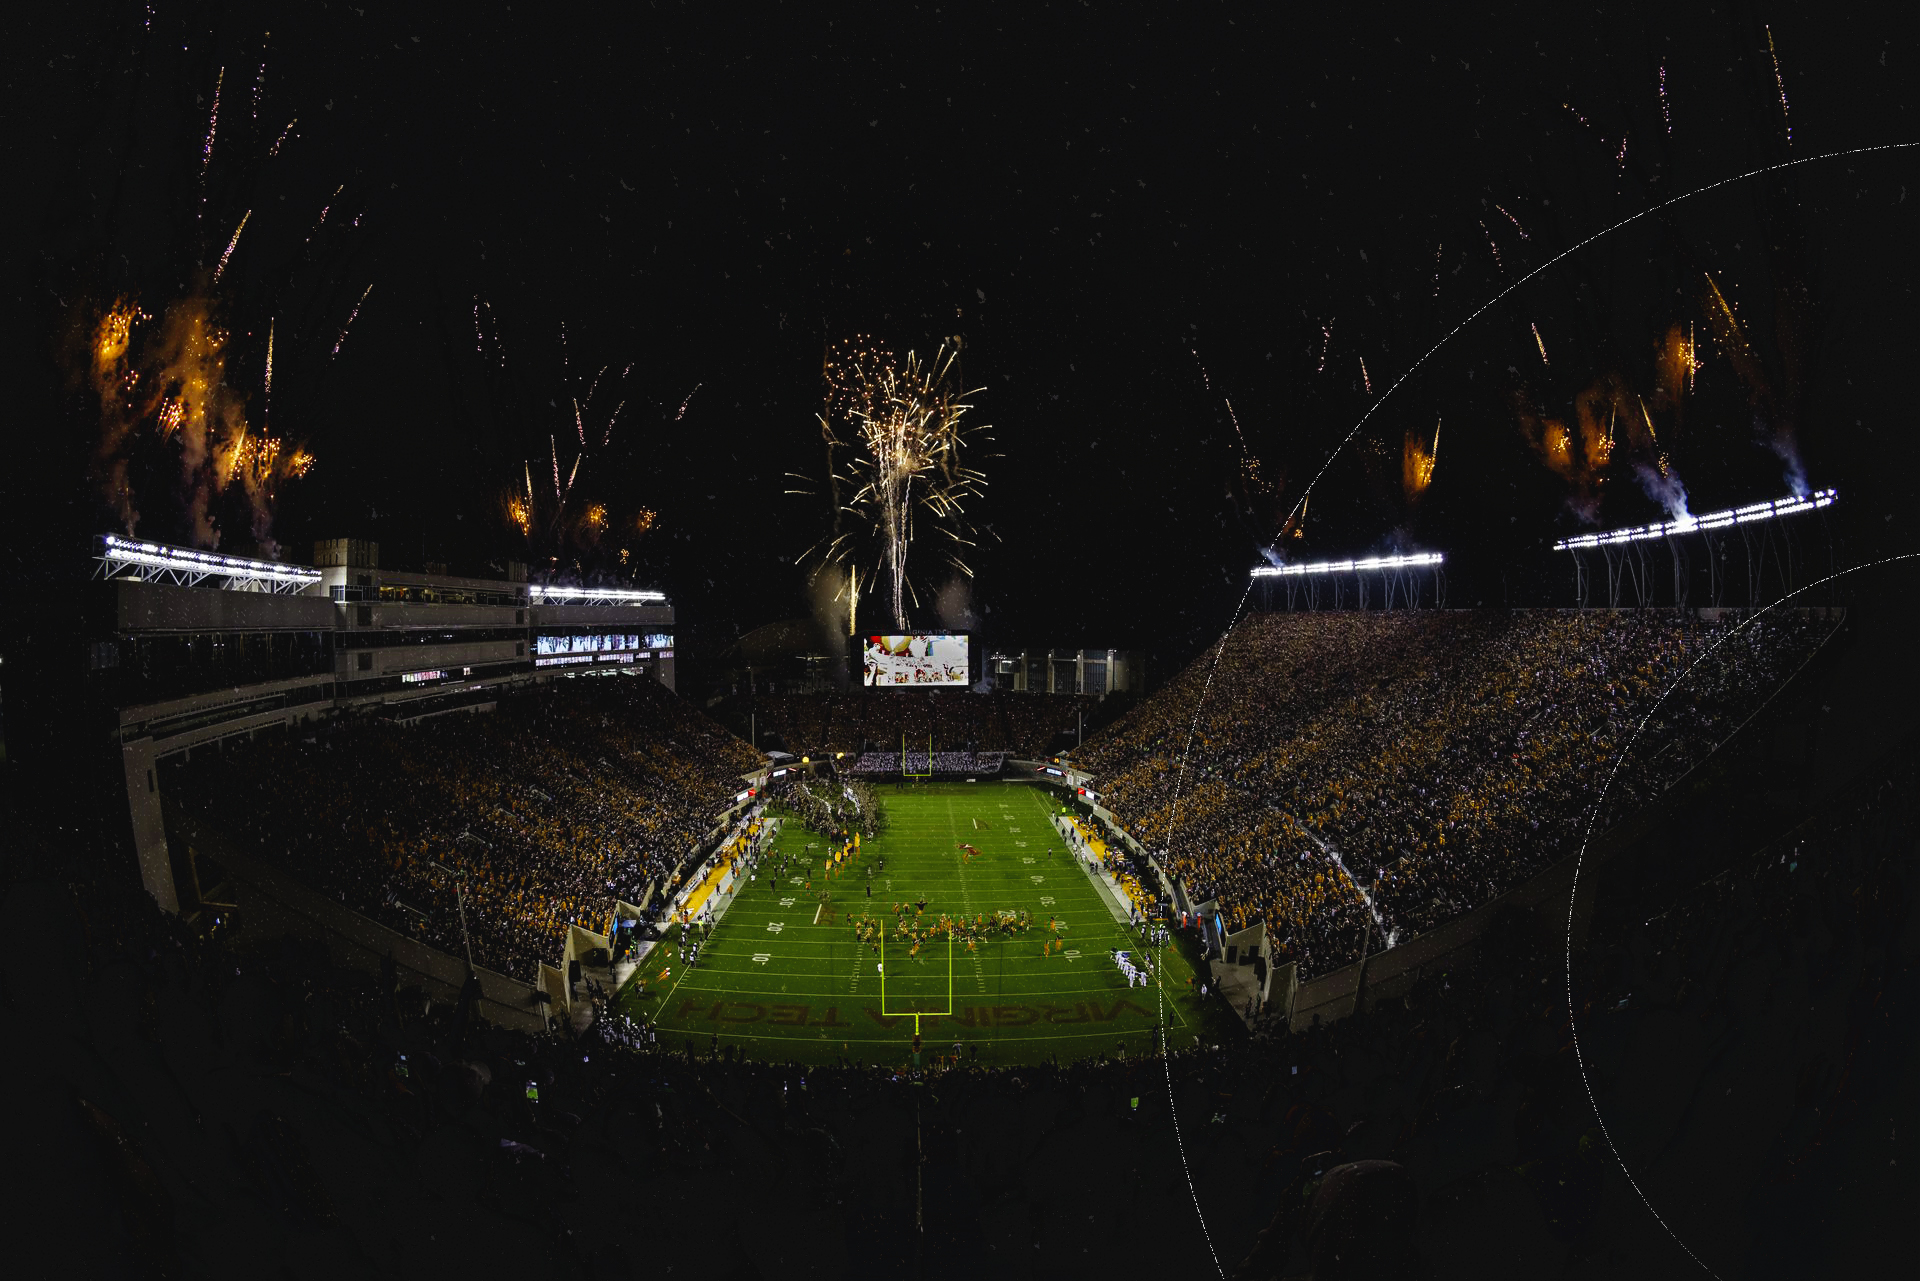
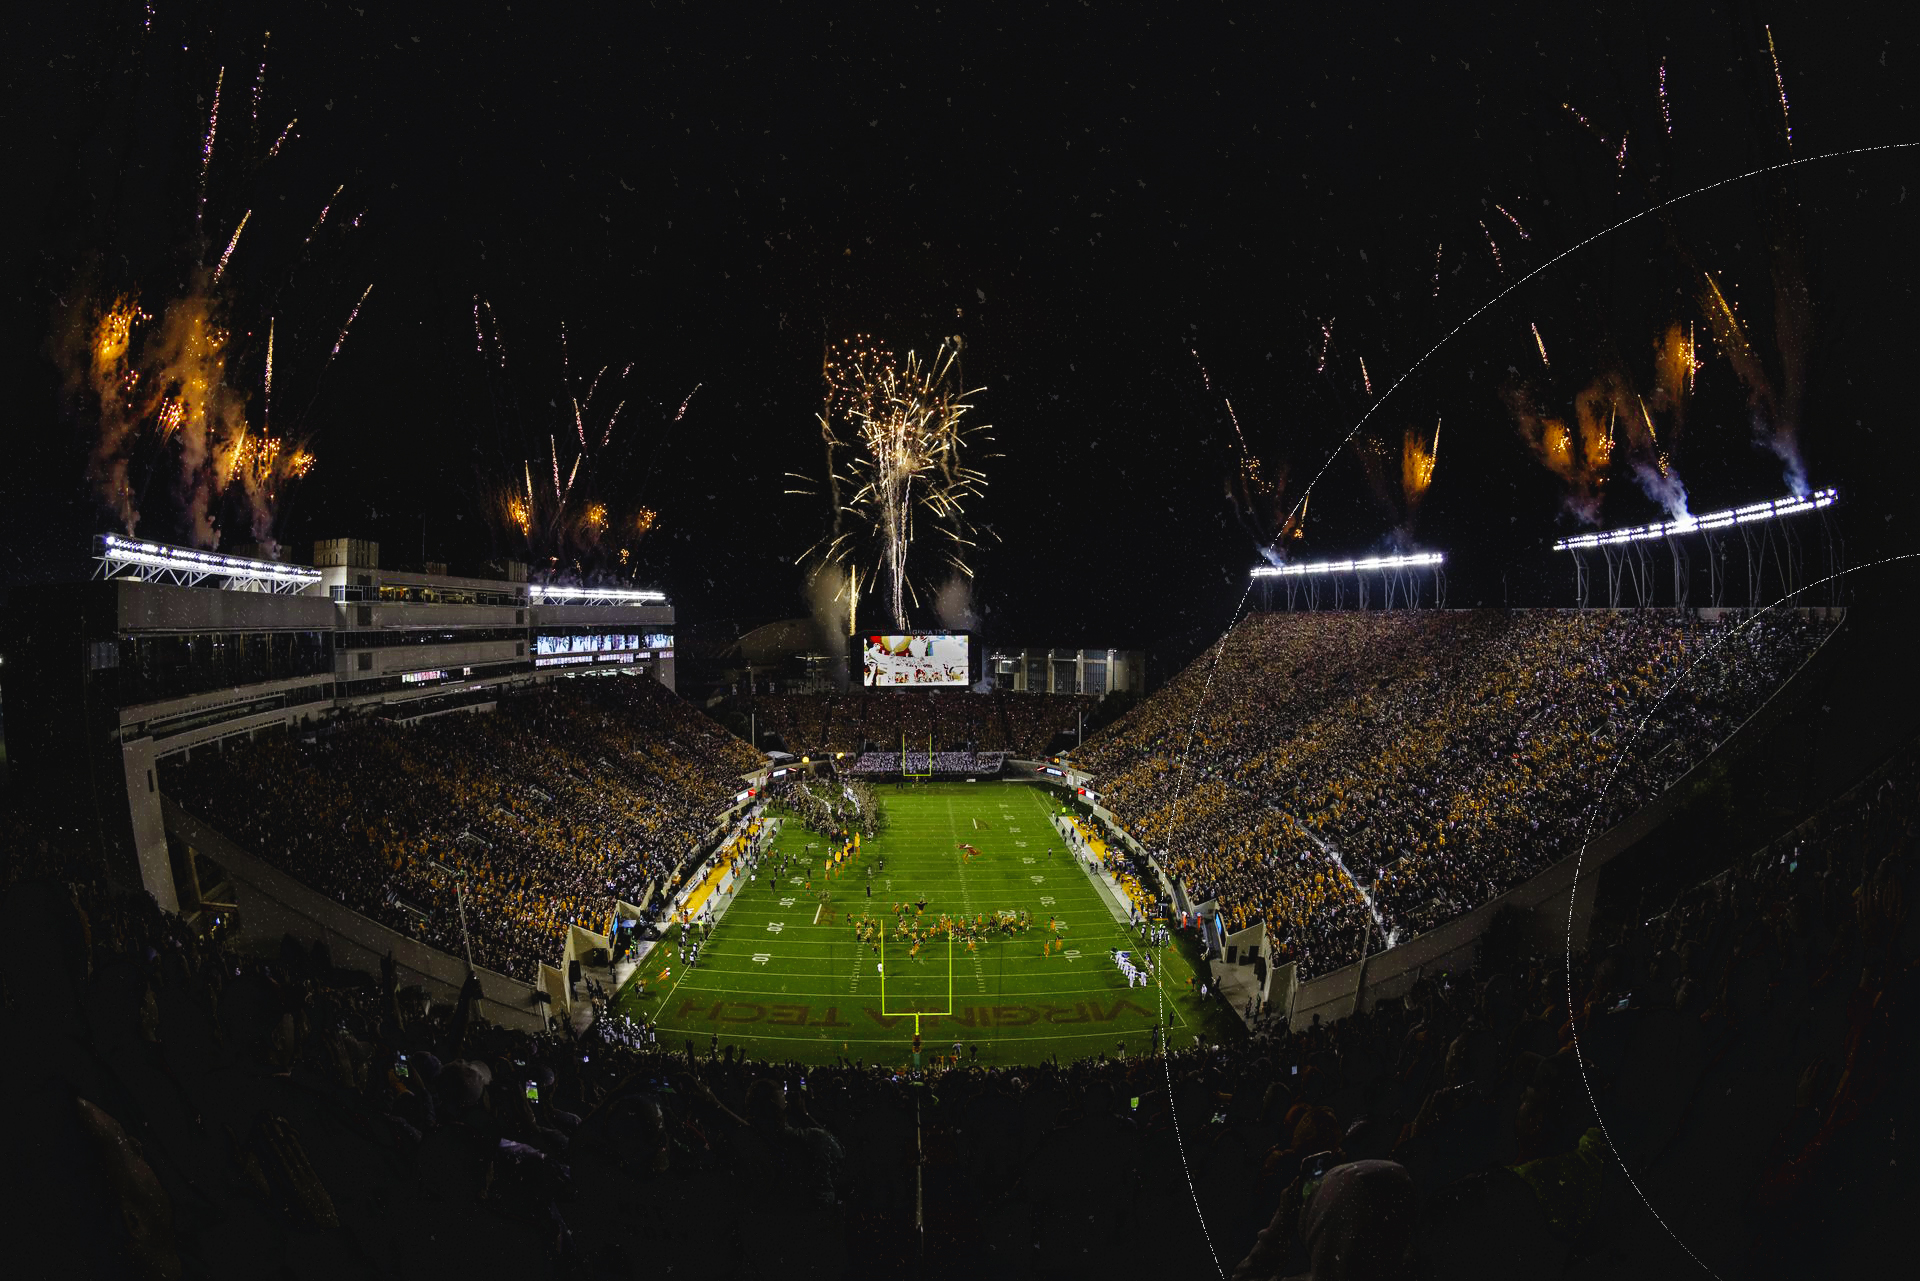
z

diff --git a/nfl.html b/nfl.html
@@ -29,8 +29,8 @@
 
   <!-- Hero -->
   <section class="page-hero page-hero--img">
-    <div class="hero-bg">
-      <img src="assets/img/about/about-header.png" alt="Aura Sports Group represented players" style="object-position: center top;">
+    <div class="hero-bg media-ph" data-label="NFL Football Image — Wide">
+      <img src="assets/img/nfl-hero.jpg" alt="">
     </div>
     <h1><span class="gold-text">NFL</span></h1>
   </section>
